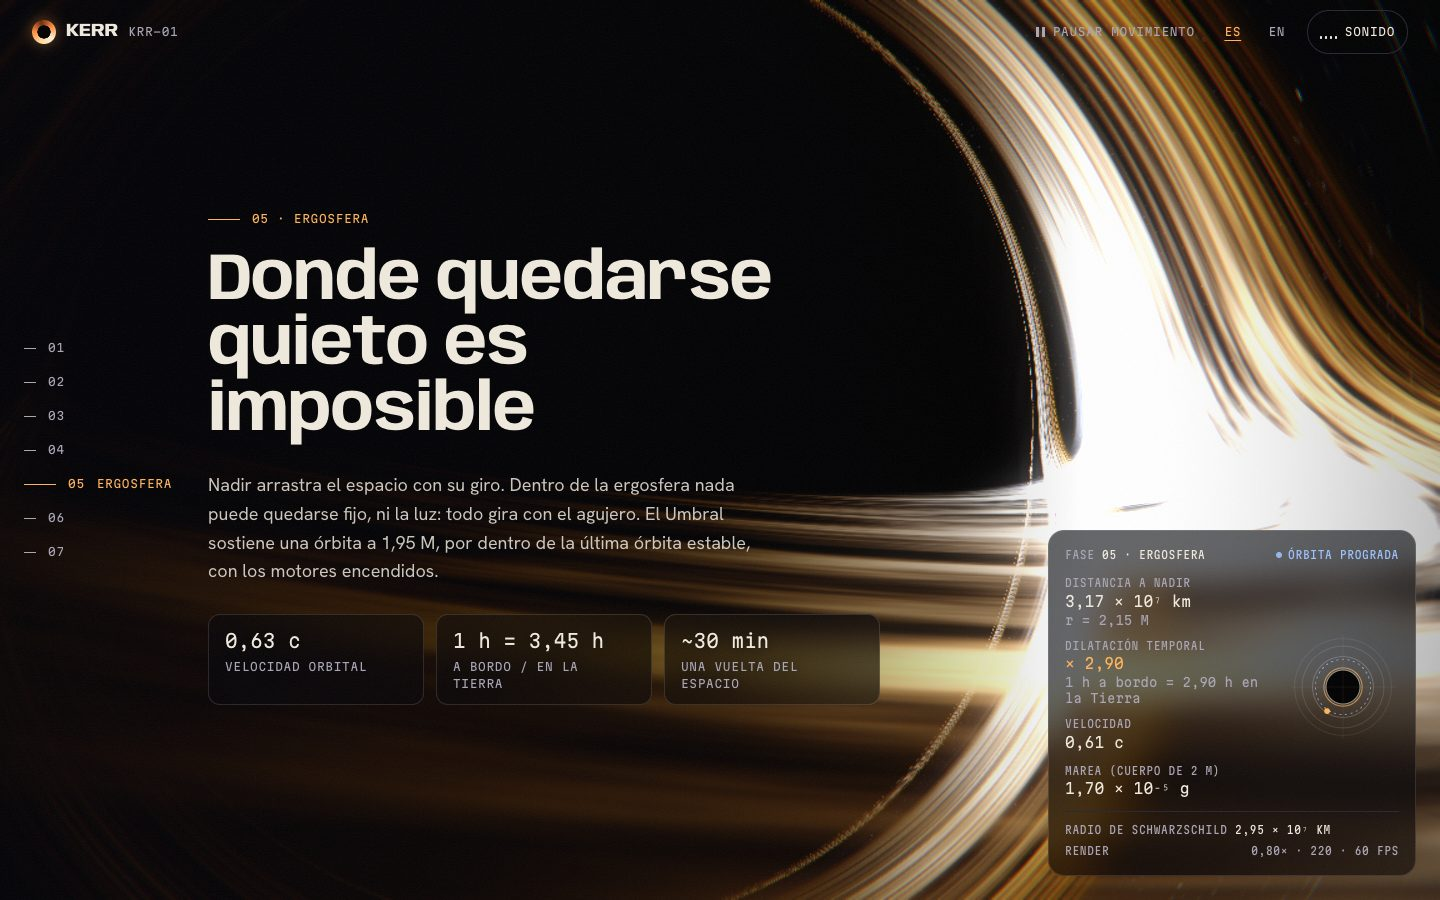
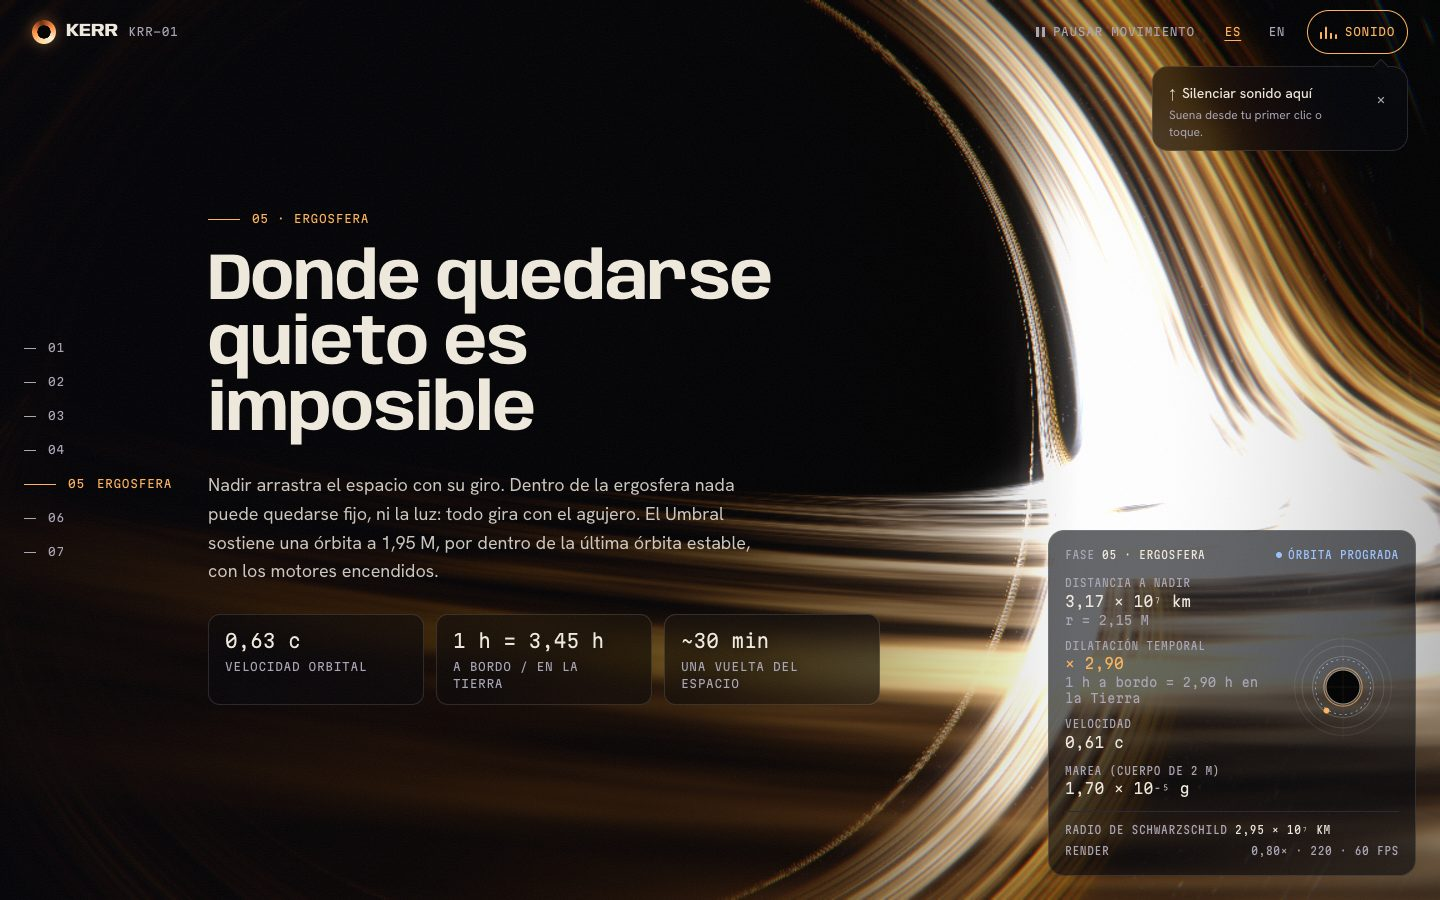
docs: update screenshots and README for the clock, the crossing and the score

diff --git a/README.md b/README.md
@@ -3,13 +3,15 @@
 The site of a fictional crewed mission into a spinning black hole. Five
 people, one ship (the *Umbral*) and Nadir: ten million suns, spinning at 94 %
 of what physics allows. The scroll is the flight, in seven chapters: launch,
-crew, a relativistic jump, the approach, an orbit inside the ergosphere, the
-crossing of the event horizon, and what is on the other side.
+a clock for time dilation, a relativistic jump, the approach, an orbit inside the ergosphere, the
+crossing of the event horizon (the HUD and the copy stretch and dissolve
+into the white, and the page turns to paper under it), and what is on the
+other side.
 
 The black hole is rendered live in WebGL2: every pixel traces a ray of light
 bending around the hole. The numbers on the HUD come from real formulas.
 
-Kerr, Nadir, the Umbral and its crew are invented, and the page says so. The
+Kerr, Nadir and the Umbral are invented, and the page says so. The
 formulas are not.
 
 ![Launch](docs/01-lanzamiento.jpg)
@@ -35,14 +37,14 @@ formulas are not.
 | Chapter | What happens |
 |---|---|
 | 01 Launch | Nadir in the distance, its disk lensed above and below the shadow. A wordmark whose letters swell on Anybody's width and weight axes near the cursor and stutter now and then. The mission clock starts. |
-| 02 Crew | Five crew members on a carousel with depth: drag it, use the arrows or the keys. Each portrait is drawn: a helmet whose visor reflects Nadir in that person's colour. |
+| 02 Clock | What an hour costs down here: pick an orbit on a logarithmic slider (20 M down to the edge of the photon orbit) and a stay aboard, and see how much time passes on Earth, from the same formula as the HUD. Two dials run side by side; Earth's turns as many times faster. |
 | 03 Jump | At 0.9999995 c: star streaks rushing past, blue ahead and red at the edge, with chromatic aberration. γ = 1,000. |
 | 04 Approach | From a speck to a wall of light. The far side of the disk shows over the top of the shadow; the photon ring hugs it. |
 | 05 Ergosphere | The camera swings around the hole inside the last stable orbit, the disk sweeping through the frame. |
 | 06 Horizon | Everything stretches: the picture twists and pulls, the copy shears and splits into colour, the last words widen on the font's width axis, the HUD goes to ∞ and loses the signal. Then white. |
 | 07 Beyond | The page turns to paper: the mission log, the formulas, and a way back to the launch. |
 
-![Crew](docs/02-tripulacion.jpg)
+![Clock](docs/02-reloj.jpg)
 ![Jump](docs/03-salto.jpg)
 ![Approach](docs/04-aproximacion.jpg)
 ![Ergosphere](docs/05-ergosfera.jpg)
@@ -51,15 +53,22 @@ formulas are not.
 
 Around it: a HUD with live telemetry and a radar of the ship against the
 horizon, the photon orbit and the ergosphere; a chapter rail; a custom
-cursor; magnetic buttons; and **an optional score**, synthesised live with
-Web Audio, original, in the spirit of the big space-organ film scores. The
-flight is a cathedral organ (additive ranks from a 16' pedal to mixtures,
-in a long synthetic nave) holding a pedal A under slow chords; a clock whose
+cursor; magnetic buttons; and **a score**, synthesised live with Web
+Audio, original, in the spirit of the big space-organ film scores. The
+flight is a cathedral organ (additive ranks from a 16' pedal to mixtures, in
+a long synthetic nave) holding a pedal A under slow chords; a clock whose
 tick stretches with the time dilation on the HUD and stops at the horizon; a
 rocking two-note figure that enters in the ergosphere and speeds up through
 the dive; one long crescendo, cut dead at the crossing. The other side is
-calm: a choir of soft "ah" voices (detuned saws through vowel formants) on a
-wide major chord, and small bells far apart in a much longer hall. It only starts from its button, never on its own.
+calm: only a darkened choir of soft "ah" voices on a wide major chord, in a
+much longer hall.
+
+The score is **on by default**. Browsers only let a page make sound after a
+first click, tap or key press (scrolling does not count), so it tries to
+start on load and otherwise starts on that first gesture, anywhere on the
+page. A bubble under the sound button says where to mute it, and a mute is
+remembered for the next visit (WCAG 1.4.2: the control is the first thing
+on the page).
 
 ---
 
@@ -195,7 +204,7 @@ What makes that hold:
 - **Reduced motion is a real version.** With `prefers-reduced-motion`, or
   `?reduced=1`: no smooth scroll, no cursor, no glitch, no pinning. The black
   hole renders one still per chapter, at full quality, when the chapter
-  changes. The crew is a grid. The HUD updates per chapter.
+  changes. The clock's dials hold still. The HUD updates per chapter.
 
   ![Reduced motion](docs/08-movimiento-reducido.jpg)
 
